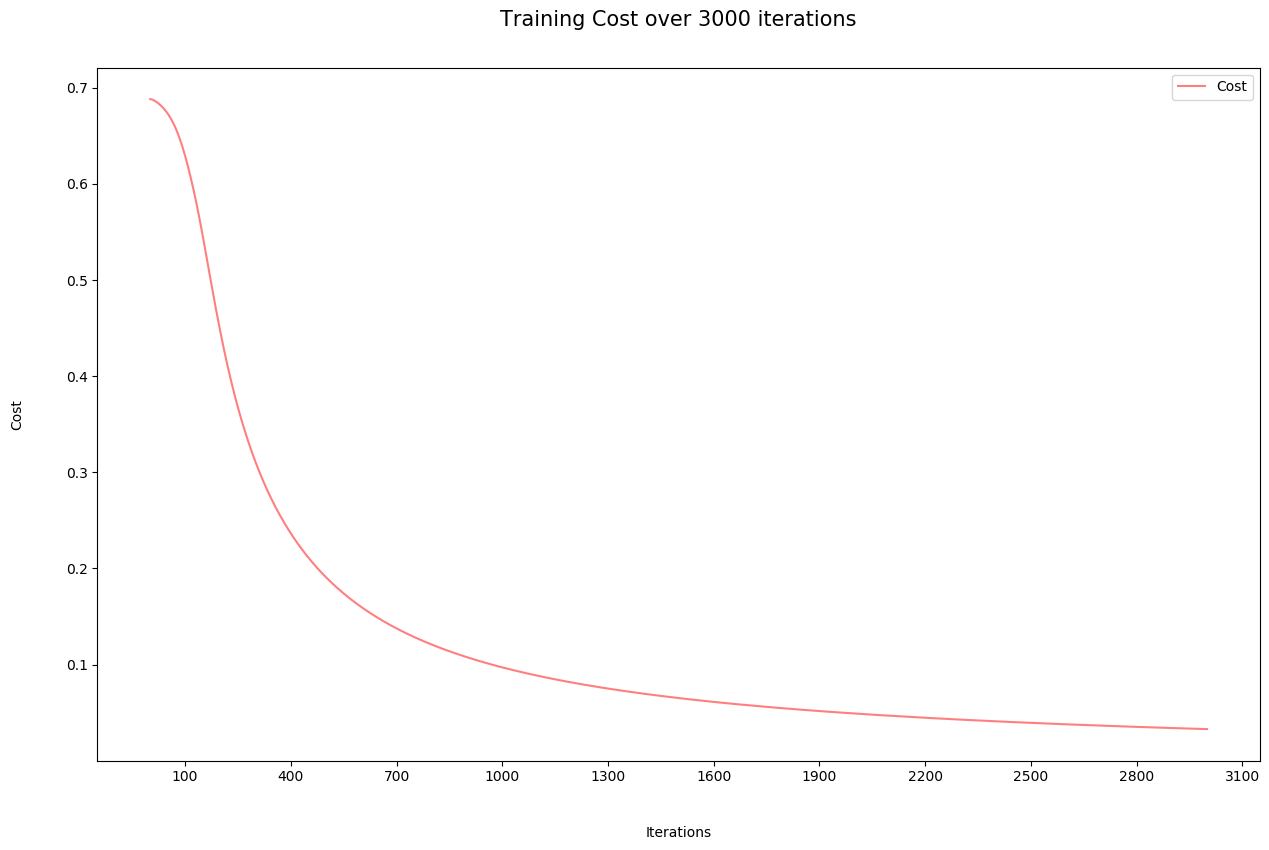
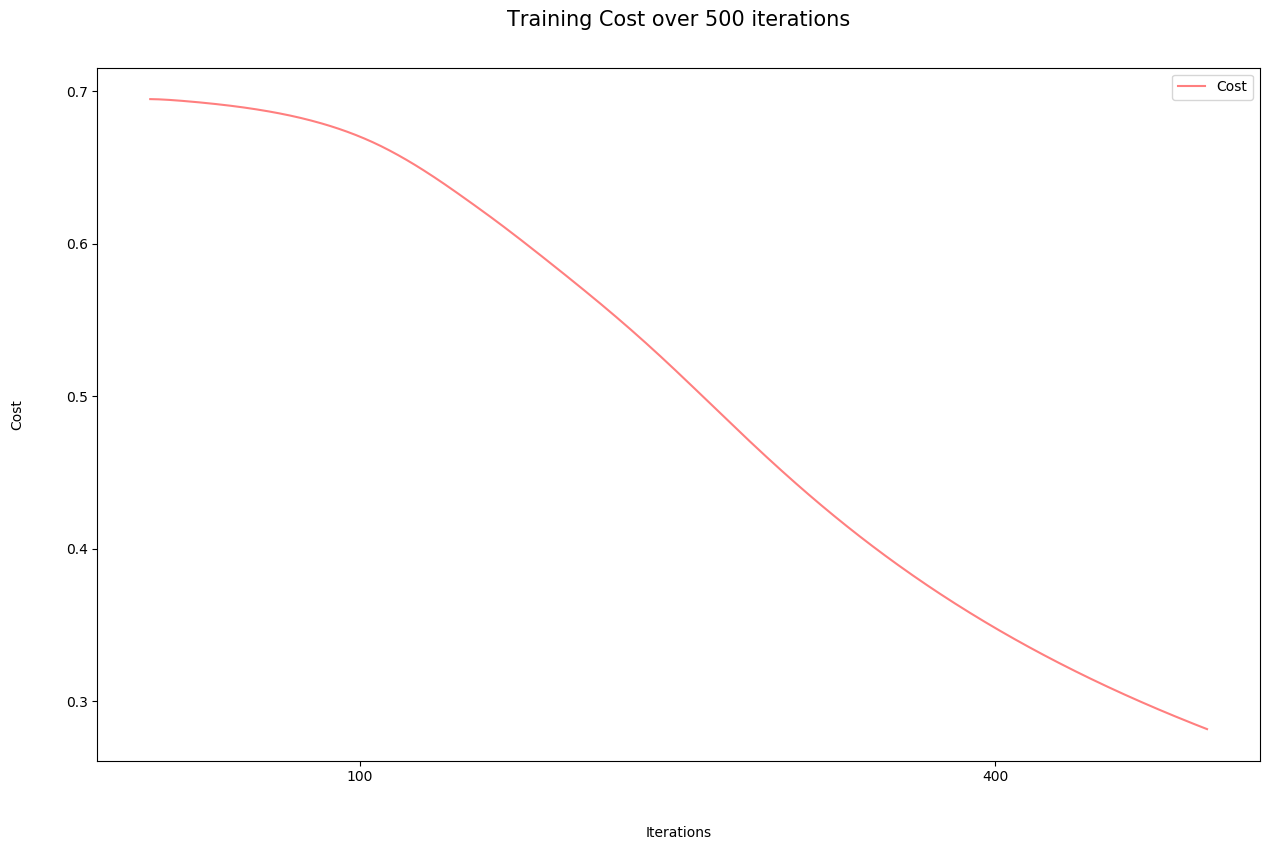
Integrating OpenBLAS

diff --git a/src/utils/utils.c b/src/utils/utils.c
@@ -70,18 +70,8 @@ dARRAY * transpose(dARRAY * restrict Matrix){
   if(Matrix->shape[0]==1 && Matrix->shape[1]==1) return Matrix;
   dARRAY * matrix = (dARRAY*)malloc(sizeof(dARRAY));
   matrix->matrix = (float*)calloc(Matrix->shape[0]*Matrix->shape[1],sizeof(float));
-  // openblas_set_num_threads(2);
-  // struct timeval start_gflops,finish_gflops;
-  // double start = omp_get_wtime();
-  // gettimeofday(&start_gflops, NULL);
   #pragma omp task
   cblas_somatcopy(CblasRowMajor,CblasTrans,Matrix->shape[0],Matrix->shape[1],1,Matrix->matrix,Matrix->shape[1],matrix->matrix,Matrix->shape[0]);
-  // gettimeofday(&finish_gflops, NULL);
-  // double end = omp_get_wtime();
-  // double duration = ((double)(finish_gflops.tv_sec-start_gflops.tv_sec)*1000000 + (double)(finish_gflops.tv_usec-start_gflops.tv_usec)) / 1000000;
-  // double gflops = 2.0 * Matrix->shape[0]*Matrix->shape[1];
-  // gflops = gflops/duration*1.0e-6;
-  // printf("Transpose took %lf seconds, %lf MFLOPS\n",(end-start),gflops);
   matrix->shape[0] = Matrix->shape[1];
   matrix->shape[1] = Matrix->shape[0];
   return matrix;
@@ -132,18 +122,19 @@ dARRAY * dot(dARRAY * MatrixA, dARRAY * MatrixB){
   k = MatrixB->shape[0];
   dARRAY * result = (dARRAY*)malloc(sizeof(dARRAY));
   result->matrix = (float*)calloc(m*n,sizeof(float));
-  // openblas_set_num_threads(2);
-  // struct timeval start_gflops,finish_gflops;
-  // double start = omp_get_wtime();
-  // gettimeofday(&start_gflops, NULL);
   #pragma omp task
-  cblas_sgemm(CblasRowMajor, CblasNoTrans, CblasNoTrans,m,n,k,1,MatrixA->matrix, k,MatrixB->matrix, n,0,result->matrix,n);
-  // gettimeofday(&finish_gflops, NULL);
-  // double end = omp_get_wtime();
-  // double duration = ((double)(finish_gflops.tv_sec-start_gflops.tv_sec)*1000000 + (double)(finish_gflops.tv_usec-start_gflops.tv_usec)) / 1000000;
-  // double gflops = 2.0 * m*n*k;
-  // gflops = gflops/duration*1.0e-6;
-  // printf("Dot Product took %lf seconds, %lf MFLOPS\n",(end-start),gflops);
+  cblas_sgemm(CblasRowMajor,\
+              CblasNoTrans,\
+              CblasNoTrans,\
+              m,n,k,\
+              1,\
+              MatrixA->matrix,\
+              k,\
+              MatrixB->matrix,\
+              n,\
+              0,\
+              result->matrix,\
+              n);
   result->shape[0] = MatrixA->shape[0];
   result->shape[1] = MatrixB->shape[1];
   return result;
@@ -193,8 +184,14 @@ dARRAY * multiply(dARRAY * restrict MatrixA, dARRAY * restrict MatrixB){
     return NULL;
   }
   dARRAY * temp = NULL;
-  int x = size(MatrixA);
-  int y = size(MatrixB);
+  int x = 0, y = 0;
+  #pragma omp sections nowait
+  {
+    #pragma omp section
+    x = size(MatrixA);
+    #pragma omp section
+    y = size(MatrixB);
+  }  
   int flag = 0;
   if(x>y){ 
     temp = b_cast(MatrixA,MatrixB); 
@@ -213,16 +210,30 @@ dARRAY * multiply(dARRAY * restrict MatrixA, dARRAY * restrict MatrixB){
   result->matrix = (float*)calloc(MatrixA->shape[0]*MatrixA->shape[1],sizeof(float));
   if(x==y){
     omp_set_num_threads(8);
-    #pragma omp parallel for num_threads(8) shared(MatrixA,MatrixB,result) schedule(static)
-    for(int i=0;i<MatrixA->shape[0]*MatrixA->shape[1];i++){
-      result->matrix[i] = MatrixA->matrix[i] * MatrixB->matrix[i];
-    }
+    int i = 0;
+    int m = MatrixA->shape[0];
+    int n = MatrixA->shape[1];
+    float * matrixA, *matrixB,*res_matrix;
+    matrixA = MatrixA->matrix;
+    matrixB = MatrixB->matrix;
+    res_matrix = result->matrix;
+    #pragma omp parallel for num_threads(8) shared(matrixA,matrixB,res_matrix,m,n) private(i) schedule(static)
+    for(i=0;i<m*n;i++)
+      res_matrix[i] = matrixA[i] * matrixB[i];
   }
   else{
     omp_set_num_threads(8);
-    #pragma omp parallel for num_threads(8) shared(MatrixA,MatrixB,temp,result) schedule(static)
-    for(int i=0;i<MatrixA->shape[0]*MatrixA->shape[1];i++)
-        result->matrix[i] = x>y ? MatrixA->matrix[i] * temp->matrix[i] : temp->matrix[i] * MatrixB->matrix[i];
+    int i = 0;
+    int m = MatrixA->shape[0];
+    int n = MatrixA->shape[1];
+    float * matrixA, *matrixB,*res_matrix,*temp_matrix;
+    matrixA = MatrixA->matrix;
+    matrixB = MatrixB->matrix;
+    temp_matrix = temp->matrix;
+    res_matrix = result->matrix;
+    #pragma omp parallel for num_threads(8) shared(matrixA,matrixB,res_matrix,temp_matrix,m,n,x,y) private(i) schedule(static)
+    for(i=0;i<m*n;i++)
+      res_matrix[i] = x>y ? matrixA[i] * temp_matrix[i] : temp_matrix[i] * matrixB[i];
   }
   if(temp!=NULL)
     free2d(temp);
@@ -265,16 +276,31 @@ dARRAY * divison(dARRAY * restrict MatrixA, dARRAY * restrict MatrixB){
   result->matrix = (float*)calloc(MatrixA->shape[0]*MatrixA->shape[1],sizeof(float));
   if(x==y){
     omp_set_num_threads(8);
-    #pragma omp parallel for num_threads(8) shared(MatrixA,MatrixB,result) schedule(static)
-    for(int i=0;i<MatrixA->shape[0]*MatrixA->shape[1];i++){
-      result->matrix[i] = MatrixA->matrix[i] / MatrixB->matrix[i];
+    int i = 0;
+    int m = MatrixA->shape[0];
+    int n = MatrixA->shape[1];
+    float * matrixA, *matrixB,*res_matrix;
+    matrixA = MatrixA->matrix;
+    matrixB = MatrixB->matrix;
+    res_matrix = result->matrix;
+    #pragma omp parallel for num_threads(8) shared(matrixA,matrixB,res_matrix,m,n) private(i) schedule(static)
+    for(i=0;i<m*n;i++){
+      res_matrix[i] = matrixA[i] / matrixB[i];
     }
   }
   else{
     omp_set_num_threads(8);
-    #pragma omp parallel for num_threads(8) shared(MatrixA,MatrixB,temp,result) schedule(static)
-    for(int i=0;i<MatrixA->shape[0]*MatrixA->shape[1];i++)
-        result->matrix[i] = x>y ? MatrixA->matrix[i] / temp->matrix[i] : temp->matrix[i] / MatrixB->matrix[i];
+    int i = 0;
+    int m = MatrixA->shape[0];
+    int n = MatrixA->shape[1];
+    float * matrixA, *matrixB,*res_matrix,*temp_matrix;
+    matrixA = MatrixA->matrix;
+    matrixB = MatrixB->matrix;
+    temp_matrix = temp->matrix;
+    res_matrix = result->matrix;
+    #pragma omp parallel for num_threads(8) shared(matrixA,matrixB,res_matrix,temp_matrix,m,n,x,y) private(i) schedule(static)
+    for(i=0;i<m*n;i++)
+        res_matrix[i] = x>y ? matrixA[i] / temp_matrix[i] : temp_matrix[i] / matrixB[i];
   }
   if(temp!=NULL)
     free2d(temp);
@@ -321,9 +347,7 @@ dARRAY * add(dARRAY * MatrixA, dARRAY * MatrixB){
     // for(int i=0;i<MatrixA->shape[0]*MatrixA->shape[1];i++){
     //   result->matrix[i] = MatrixA->matrix[i] + MatrixB->matrix[i];
     // }
-    #pragma omp task
     cblas_scopy(MatrixB->shape[0]*MatrixB->shape[1],MatrixB->matrix,1,result->matrix,1);
-    #pragma omp task
     cblas_saxpy(MatrixA->shape[0]*MatrixA->shape[1],1,MatrixA->matrix,1,result->matrix,1);
   }
   else{
@@ -332,15 +356,11 @@ dARRAY * add(dARRAY * MatrixA, dARRAY * MatrixB){
     // for(int i=0;i<MatrixA->shape[0]*MatrixA->shape[1];i++)
     //     result->matrix[i] = x>y ? MatrixA->matrix[i] + bcast_arr->matrix[i] : bcast_arr->matrix[i] + MatrixB->matrix[i];
     if(x>y){
-      #pragma omp task
       cblas_scopy(MatrixA->shape[0]*MatrixA->shape[1],bcast_arr->matrix,1,result->matrix,1);
-      #pragma omp task
       cblas_saxpy(MatrixA->shape[0]*MatrixA->shape[1],1,MatrixA->matrix,1,result->matrix,1);
     }
     else{
-      #pragma omp task
       cblas_scopy(MatrixB->shape[0]*MatrixB->shape[1],MatrixB->matrix,1,result->matrix,1);
-      #pragma omp task
       cblas_saxpy(MatrixA->shape[0]*MatrixA->shape[1],1,bcast_arr->matrix,1,result->matrix,1);
     }
   }
@@ -368,8 +388,7 @@ dARRAY * subtract(dARRAY * MatrixA, dARRAY * MatrixB){
   int y = size(MatrixB);
   int flag=0;
   if(x>y){ 
-    bcast_arr = b_cast(MatrixA,MatrixB); 
-    flag=1;
+    bcast_arr = b_cast(MatrixA,MatrixB);
   }
   else if(x<y){
     bcast_arr = b_cast(MatrixB,MatrixA);
@@ -388,9 +407,7 @@ dARRAY * subtract(dARRAY * MatrixA, dARRAY * MatrixB){
     // for(int i=0;i<MatrixA->shape[0]*MatrixA->shape[1];i++){
     //   result->matrix[i] = MatrixA->matrix[i] + MatrixB->matrix[i];
     // }
-    #pragma omp task
     cblas_scopy(MatrixA->shape[0]*MatrixA->shape[1],MatrixA->matrix,1,result->matrix,1);
-    #pragma omp task
     cblas_saxpy(MatrixB->shape[0]*MatrixB->shape[1],-1,MatrixB->matrix,1,result->matrix,1);
   }
   else{
@@ -399,16 +416,11 @@ dARRAY * subtract(dARRAY * MatrixA, dARRAY * MatrixB){
     // for(int i=0;i<MatrixA->shape[0]*MatrixA->shape[1];i++)
     //     result->matrix[i] = x>y ? MatrixA->matrix[i] + bcast_arr->matrix[i] : bcast_arr->matrix[i] + MatrixB->matrix[i];
     if(x>y){
-      // openblas_set_num_threads(8);
-      #pragma omp task
       cblas_scopy(MatrixA->shape[0]*MatrixA->shape[1],MatrixA->matrix,1,result->matrix,1);
-      #pragma omp task
       cblas_saxpy(MatrixA->shape[0]*MatrixA->shape[1],-1,bcast_arr->matrix,1,result->matrix,1);
     }
     else{
-      #pragma omp task
       cblas_scopy(bcast_arr->shape[0]*bcast_arr->shape[1],bcast_arr->matrix,1,result->matrix,1);
-      #pragma omp task
       cblas_saxpy(MatrixA->shape[0]*MatrixA->shape[1],-1,MatrixB->matrix,1,result->matrix,1);
     }
   }
@@ -499,7 +511,9 @@ dARRAY * mulScalarm(dARRAY * matrix, float scalar){
     return NULL;
   }
   float * div_mat = (float*)calloc(matrix->shape[0]*matrix->shape[1],sizeof(float));
+  #pragma omp task
   cblas_sscal(matrix->shape[0]*matrix->shape[1],scalar,matrix->matrix,1);
+  #pragma omp task
   cblas_scopy(matrix->shape[0]*matrix->shape[1],matrix->matrix,1,div_mat,1);
   dARRAY * result = (dARRAY*)malloc(sizeof(dARRAY));
   result->matrix = div_mat;
@@ -531,13 +545,17 @@ dARRAY * divScalar(dARRAY * matrix, float scalar){
   result->shape[1] = matrix->shape[1];
   return result;
 }
+
 dARRAY * divScalarm(dARRAY * matrix, float scalar){
   if(matrix==NULL){
     printf("\033[1;31mError:\033[93m Matrix is empty. Call divScalar() only after intializing dARRAY object.\033[0m\n");
     return NULL;
   }
   float * div_mat = (float*)calloc(matrix->shape[0]*matrix->shape[1],sizeof(float));
+  omp_set_num_threads(8);
+  #pragma omp task
   cblas_sscal(matrix->shape[0]*matrix->shape[1],(1/scalar),matrix->matrix,1);
+  #pragma omp task
   cblas_scopy(matrix->shape[0]*matrix->shape[1],matrix->matrix,1,div_mat,1);
   dARRAY * result = (dARRAY*)malloc(sizeof(dARRAY));
   result->matrix = div_mat;
@@ -546,8 +564,6 @@ dARRAY * divScalarm(dARRAY * matrix, float scalar){
   return result;
 }
 
-
-
 /**!
  * Function raises the elements of a matrix to the specified power. 
  * @param matrix A matrix of dARRAY Object 
@@ -555,7 +571,7 @@ dARRAY * divScalarm(dARRAY * matrix, float scalar){
  * @result A pointer to the result of power(matrix,power) 
  * @return A pointer to the result of power(matrix,power) 
 */
-dARRAY * power(dARRAY * matrix, int power){
+dARRAY * power(dARRAY * matrix, float power){
   if(matrix==NULL){
     printf("\033[1;31mError:\033[93m Matrix is empty. Call power() only after intializing dARRAY object.\033[0m\n");
     return NULL;
@@ -607,10 +623,16 @@ dARRAY * b_cast(dARRAY * MatrixA, dARRAY * MatrixB){
     //M(5,4) B(1,4)  repeat 5 * 4 = 20 times
     b_castArr = (dARRAY*)malloc(sizeof(dARRAY));
     b_castArr->matrix = (float*)calloc(MatrixA->shape[0]*MatrixA->shape[1],sizeof(float));
+    float * bcast_matrix, *matrixB;
+    bcast_matrix = b_castArr->matrix;
+    matrixB = MatrixB->matrix;
+    int m = MatrixA->shape[0];
+    int n = MatrixB->shape[1];
+    int i = 0;
     omp_set_num_threads(8);
-    #pragma omp parallel for num_threads(8) shared(MatrixA,MatrixB,b_castArr) schedule(static)
-    for(int i=0;i<MatrixA->shape[0]*MatrixB->shape[1];i++){
-      b_castArr->matrix[i] = MatrixB->matrix[(i%MatrixB->shape[1])];
+    #pragma omp parallel for num_threads(8) shared(matrixB,bcast_matrix,m,n) private(i) schedule(static,8)
+    for(i=0;i<m*n;i++){
+      bcast_matrix[i] = matrixB[(i%n)];
     }
     b_castArr->shape[0] = MatrixA->shape[0];
     b_castArr->shape[1] = MatrixB->shape[1];
@@ -622,12 +644,19 @@ dARRAY * b_cast(dARRAY * MatrixA, dARRAY * MatrixB){
     b_castArr = (dARRAY*)malloc(sizeof(dARRAY));
     b_castArr->matrix = (float*)calloc(MatrixA->shape[0]*MatrixA->shape[1],sizeof(float));
     int k=0;
+    float * bcast_matrix, *matrixB;
+    bcast_matrix = b_castArr->matrix;
+    matrixB = MatrixB->matrix;
+    int m = MatrixA->shape[0];
+    int n = MatrixA->shape[1];
+    int i = 0;
+    int j = 0;
     omp_set_num_threads(8);
-    #pragma omp parallel for num_threads(8) shared(MatrixA,MatrixB,b_castArr,k) schedule(static)
-    for(int i=0;i<MatrixA->shape[0];i++){
+    #pragma omp parallel for num_threads(8) shared(matrixB,bcast_matrix,m,n,k) private(i,j) schedule(static,8)
+    for(i=0;i<m;i++){
       //copy b n times
-      for(int j=0;j<MatrixA->shape[1];j++){
-        b_castArr->matrix[k] = MatrixB->matrix[i];
+      for(j=0;j<n;j++){
+        bcast_matrix[k] = matrixB[i];
         k++;
       }
     }
@@ -656,11 +685,14 @@ dARRAY * sum(dARRAY * matrix, int axis){
   if(axis==0){
     new->matrix = (float*)calloc(matrix->shape[1],sizeof(float));
     dARRAY * temp = transpose(matrix);
+    float sum_ = 0.0f;
+    int i = 0;
+    int j = 0;
     omp_set_num_threads(8);
-    #pragma omp parallel for num_threads(8) collapse(1)
-    for(int i=0;i<temp->shape[0];i++){
-      float sum_=0.0;
-      for(int j=0;j<temp->shape[1];j++){
+    #pragma omp parallel for num_threads(8) shared(temp,new) private(i,j) reduction(+:sum_)
+    for(i=0;i<temp->shape[0];i++){
+      sum_=0.0;
+      for(j=0;j<temp->shape[1];j++){
         sum_+= temp->matrix[i*temp->shape[1]+j];
       }
       new->matrix[i] = sum_;
@@ -671,22 +703,18 @@ dARRAY * sum(dARRAY * matrix, int axis){
     temp=NULL;
   }
   else if(axis==1){
-    // if(matrix->shape[0]==1){
-    //   new->matrix = (float*)calloc(matrix->shape[0],sizeof(float));
-    //   new->matrix[0] = cblas_dasum(matrix->shape[0]*matrix->shape[1],matrix->matrix,1.0);
-    // }
-    // else{
       new->matrix = (float*)calloc(matrix->shape[0],sizeof(float));
       omp_set_num_threads(8);
-      #pragma omp parallel for num_threads(8) collapse(1)
-      for(int i=0;i<matrix->shape[0];i++){
-        float temp = 0.0;
-        for(int j=0;j<matrix->shape[1];j++){
+      int j = 0, i = 0;
+      float temp = 0.0f; 
+      #pragma omp parallel for num_threads(8) shared(matrix,new) private(i,j) reduction(+:temp)
+      for(i=0;i<matrix->shape[0];i++){
+        temp = 0.0;
+        for(j=0;j<matrix->shape[1];j++){
           temp += matrix->matrix[i*matrix->shape[1]+j];
         }
         new->matrix[i] = temp;
-      // }
-    }
+      }
     new->shape[0] = matrix->shape[0];
     new->shape[1] = 1;
   }

diff --git a/src/test/test_network.c b/src/test/test_network.c
@@ -30,7 +30,7 @@ int main(){
   Dense(.layer_size=16,.activation="relu",.layer_type="hidden");
   Dense(.layer_size=1,.activation="sigmoid",.initializer="random",.layer_type="output");
   Model(.x_train=x_train,.Y_train=y_train,.x_cv=x_cv,.Y_cv=y_cv,.x_test=x_test,.Y_test=y_test,\
-        .num_iter=3000,.learning_rate=4e-3,.optimizer="momentum",.checkpoint_every=-1,
+        .num_iter=500,.learning_rate=4e-3,.optimizer="momentum",.checkpoint_every=-1,
        );
 
   // m->load_model("test_patch2.t7");

diff --git a/src/utils/utils.h b/src/utils/utils.h
@@ -36,7 +36,7 @@ extern "C"{
   dARRAY * mulScalar(dARRAY * matrix, float scalar);
   dARRAY * divison(dARRAY * MatrixA, dARRAY * MatrixB);
   dARRAY * divScalar(dARRAY * matrix, float scalar);
-  dARRAY * power(dARRAY * matrix, int power);
+  dARRAY * power(dARRAY * matrix, float power);
   dARRAY * exponentional(dARRAY * matrix);
   dARRAY * b_cast(dARRAY * MatrixA, dARRAY * MatrixB);
   dARRAY * reshape(dARRAY * matrix, int * dims);
